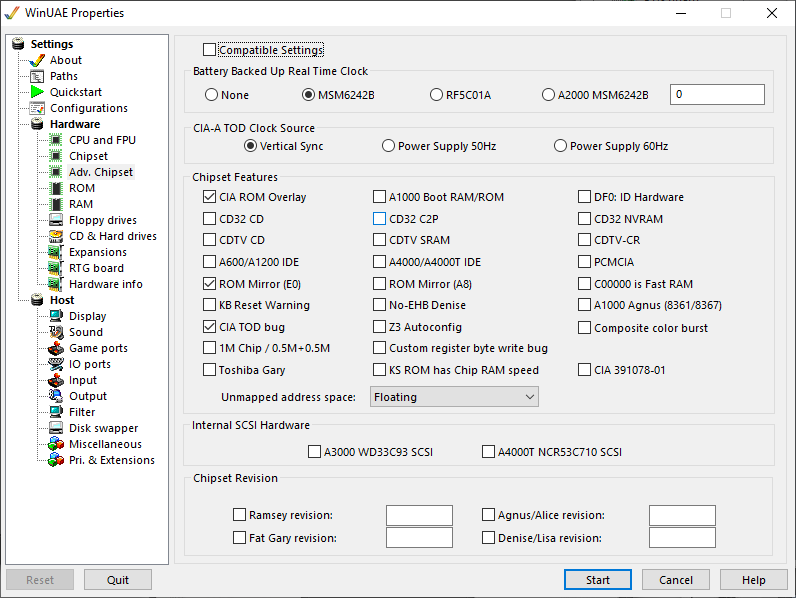
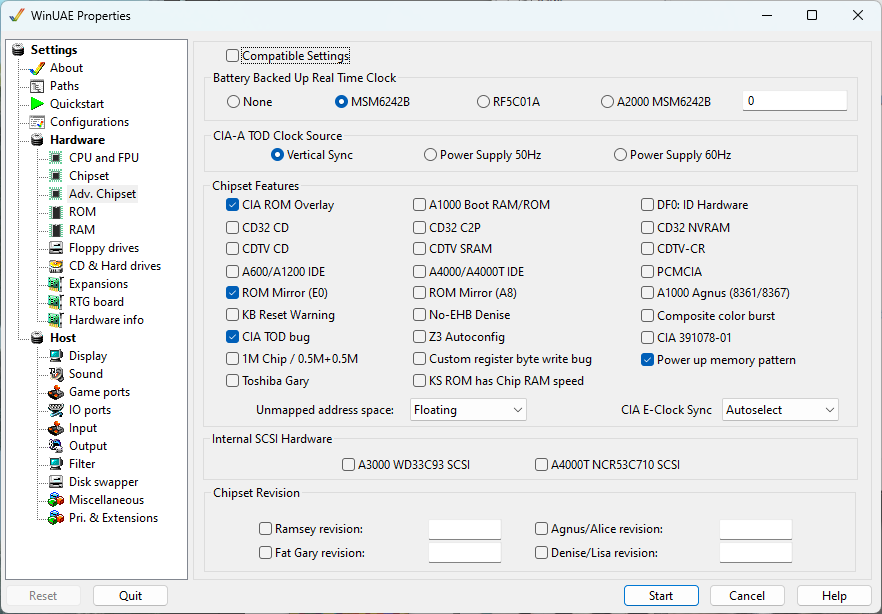
Latest changes for Winuae Help for Winuae 4.10.0
about
Advanced chipset
ram
RTG Board
Display
Sound
Output
Misc

diff --git a/gui/advchipset.htm b/gui/advchipset.htm
@@ -40,55 +40,54 @@
     Dynamic Total Vision) custom CD drive.<br>
     <strong>CDTV SRAM</strong> - Enable use of CDTV's Static
     RAM.<br>
-    <strong>CDTV SRAM Expansion</strong> - Enable use of CDTV's
-    Static RAM expansion.<br>
+    <strong>CDTV-CR</strong> - Enable CDTV Cost Reduced or Mk II
+    version (CDTV based on A600 rather than A500)<br>
     <strong>A600/A1200 IDE</strong> - Enable use of the Amiga 600
     or 1200 internal IDE port.<br>
     <strong>A4000/A4000T IDE</strong> - Enable use of the Amiga
     4000 or 4000T internal IDE port(s).<br>
-    <strong>CDTV-CR</strong> - CDTV Cost Reduced or MkII clone
-    (never publicly released).<br>
-    <strong>ROM Mirror (E0)</strong> - 1 MB ROM image support.<br>
-    <strong>ROM Mirror (A8)</strong> - 2 MB ROM image support.<br>
     <strong>PCMCIA</strong> - Enable use of PCMCIA port featured on
     the A600/A1200. Useful for external memory, storage and other
     uses.<br>
+    <strong>ROM Mirror (E0)</strong> - 1 MB ROM image support.<br>
+    <strong>ROM Mirror (A8)</strong> - 2 MB ROM image support.<br>
+    <strong>A1000 Agnus (8361/8367)</strong> - A1000's Agnus chip
+    (looks after Chip access to CPU and other chips), it includes
+    blitter and copper.<br>
     <strong>KB Reset Warning</strong> - Keyboard reset warning.<br>
     <strong>No-EHB Denise</strong> - No Extra Half Bright mode on
     Denise chip found on A1000.<br>
-    <strong>C00000 is Fast RAM</strong> - Forces memory address
-    into Fast RAM area.<br>
+    <strong>Composite color burst</strong> - Enable composite color
+    burst to update colors.<br>
     <strong>CIA TOD Bug</strong> - Emulate the Complex Interface
     Adapter (CIA) Time of Day bug.<br>
     <strong>Z3 Autoconfig</strong> - Enable Zorro3
     Autoconfiguration.<br>
-    <strong>A1000 Agnus (8361/8367)</strong> - A1000's Agnus chip
-    (looks after Chip access to CPU and other chips), it includes
-    blitter and copper.<br>
+    <strong>CIA 391078-01</strong> - Enable Complex Interface
+    Adapter 391078-01 chip which has a bug in IO port output mode,
+    reading output mode port will always read output mode data
+    state.<br>
     <strong>1MB Chip / 0.5M+0.5M</strong> - Enable 1MB Chip RAM
     made of two 512KB chips.<br>
     <strong>Custom register byte write bug</strong> - Enable a
     custom register byte write bug feature.<br>
-    <strong>Composite color burst</strong> - Enable composite color
-    burst to update colors.<br>
+    <strong>Power up memory pattern</strong> - Chip and Slow RAM
+    power up pattern emulation.<br>
     <strong>Toshiba Gary</strong> - Optional Toshiba Gary (Gate
     Array) slow (chip ram like) Z2 IO.Gary looks after bus control
     and functions for floppy drivers.<br>
     <strong>KS ROM has Chip RAM speed</strong> Set speed of
     Kickstart ROM to Chip RAM speed.<br>
-    <strong>CIA 391078-01</strong> - Enable Complex Interface
-    Adapter 391078-01 chip which has a bug in IO port output mode,
-    reading output mode port will always read output mode data
-    state.<br>
+    <br>
     <strong>Unmapped address space</strong> - Set unmapped address
-    space to Floating, all zeros or all ones.</p>
+    space to Floating, all zeros or all ones.<br>
+    <strong>CIA E-Clock Sync</strong> - Set to AutoSelect, 68000,
+    Gayle or 68000 Alternate.</p>
     <h1>Internal SCSI Hardware</h1>
     <p><strong>A3000 WD33C93 SCSI</strong> - Emulate the A3000
     Western Digital 33C93 SCSI controller.<br>
     <strong>A4000T NCR53C710 SCSI</strong> - Emulate the A4000T NCR
-    53C710 SCSI controller.<br>
-    <strong>CDTV WD33C93 SCSI</strong> - Enable the CDTV Western
-    Digital 33C93 SCSI controller.</p>
+    53C710 SCSI controller.</p>
     <h1>Chipset Revision</h1>
     <p><strong>Ramsey revision</strong> - Specify the specific
     version of the Ramsey chip (default is 0F). This is the gate

diff --git a/gui/sound.htm b/gui/sound.htm
@@ -24,34 +24,34 @@
       settings.</li>
     </ul>
     <p><strong>Automatic switching</strong> allows switching
-    between sound modes automatically.<br>
-    <strong>Include CD and FMV audio</strong> enables audio from CD
-    and video sources</p>
+    between sound modes automatically.</p>
     <h1>Volume</h1>
     <p><strong>Master volume</strong>. Set overall volume between
     0% (silent) to 100% (loud).<br>
     <strong>Paula,CD,AHI Audio</strong>. Set audio from either
-    Paula, direct CD or AHI sound between 0% (silent) to 100%
-    (loud).</p>
+    Paula, direct CD, AHI sound between 0% (silent) to 100% (loud),
+    MIDI Or Genlock.</p>
     <h1>Sound Buffer Size</h1>
     <p>Gives access to the level of the used Direct Sound buffer.
     If sound output is choppy, this should be changed.</p>
     <h1>Settings</h1>
     <p><strong>Channel mode</strong> can be set to Mono, Stereo,
-    Cloned Stereo or 4 Channel. Stereo will use more CPU time.<br>
+    Cloned Stereo or 4 Channel and 5.1 Channels. Stereo will use
+    more CPU time.<br>
     <strong>Stereo Separation</strong> can be set to improve stereo
     sound.<br>
     <strong>Interpolation</strong> improved quality by smoothing
     calculation results, but needs more computing power.<br>
     <strong>Frequency</strong> higher Frequency and/or Sample Type,
     the higher the sound quality will be, but the slower the
-    emulation <strong>Swap channels</strong> can be used to swap
-    between channels for Paula, AHI or both types of Sound
-    chipsets.<br>
+    emulation.<br>
+    <strong>Swap channels</strong> can be used to swap between
+    channels for Paula, AHI or both types of Sound chipsets.<br>
     <strong>Stereo delay</strong> can be set to improve stereo
     sound.<br>
     <strong>Audio Filter</strong> allows you to emulate Sound Power
-    LED and can be Always on, Always off or Emulated.</p>
+    LED and can be Always on, Always off or Emulated (for A500 or
+    A1200).</p>
     <h1>Floppy Drive Sound Emulation</h1>
     <p>This feature enables the Disk Drive sounds like on a real
     Amiga so you can hear disks being read or written to. Select a

diff --git a/gui/ram.htm b/gui/ram.htm
@@ -20,7 +20,7 @@
     <p>The <strong>drop down menu</strong> offers selection for all
     available RAM slots<br>
     <strong>Slider</strong> adjusts the amount of RAM for the
-    selected slot<br>
+    selected slot (256KB to 8MB)<br>
     <strong>Edit Autoconfig data</strong> Change the Manufacture
     code, Product code and Autoconfig data values.<br>
     <strong>Manual configuration</strong> Change the Address range
@@ -28,8 +28,13 @@
     <strong>DMA capable</strong> Enable Direct Memory Address
     capability.<br>
     <strong>Force 16-bit</strong> Use 16 bit memory addressing.<br>
+    <strong>Slow RAM</strong> Enable slow RAM (used by CPU and
+    Chipset).<br>
+    <br>
     <strong>Z3 mapping mode.</strong> Select Automatic, UAE or real
     Zorro 3 mapping mode.<br>
+    <strong>Manfacturer, Product, Autoconfig Data</strong> Display
+    data about memory board.<br>
     <strong>Memory board</strong> Select a UAE, DKB, Kupke or Supra
     memory board.<br>
     <strong>Address range</strong> Set address range for

diff --git a/gui/output.htm b/gui/output.htm
@@ -37,12 +37,21 @@
     <strong>Take screenshot before filtering</strong> will capture
     screen contents before any of the configured <a href=
     "filter.htm">filters</a> have been applied.<br>
+    <strong>Create 256 color palette index screenshot if
+    possible</strong><br>
     <strong>Autoclip screenshot</strong> will trim the picture to
     output format</p>
     <h1>Re-recorder</h1>
     <p>This can allow you to <strong>Record</strong> and
     <strong>Playback</strong> recorder input events saved with
-    WinUAE. They are saved as <strong>.inp</strong> files.</p>
+    WinUAE. They are saved as <strong>.inp</strong> files.<br>
+    <strong>Automatic replay</strong> Allow auto-replay of the
+    recording.<br>
+    <strong>Save recording</strong> Save a recorrding to an .inp
+    file.<br>
+    <strong>Recording rate</strong> Set to to 1 to 60 seconds.<br>
+    <strong>Recording buffers</strong> Set buffer from 50 to
+    10000.</p>
   </article>
   <footer>
     Help content is under the terms of the <a href=

diff --git a/gui/rtgboard.htm b/gui/rtgboard.htm
@@ -27,13 +27,18 @@
     instead if using windowed mode.<br>
     <strong>Always center</strong> Will make sure RTG display is
     centered in middle of monitor.<br>
+    <strong>Integer scaling</strong> Use integer type scaling for
+    RTG.<br>
+    <strong>Multithreaded</strong> Use RTG board's multithreading
+    for performance.<br>
+    <strong>Hardware sprite emulation</strong> If board supports
+    it, enable sprite emulation<br>
     <strong>Hardware vertical blank interrupt</strong>
     emulation<br>
-    <strong>Hardware sprite emulation</strong><br>
     <strong>Color modes:</strong> Specify color depth (in bits),
     and other modes available for the card.<br>
     <strong>Monitor selection</strong> to select the output screen.
-    Will be grayed out if only one screen is detected<br>
+    It will be grayed out if only one screen is detected<br>
     <br>
     <strong>Refresh Rate</strong> This can be Disabled, Chipset,
     Real or 50, 60, 70 or 75 Hz.<br>

diff --git a/gui/display.htm b/gui/display.htm
@@ -28,12 +28,17 @@
     <strong>Buffering</strong>. Select type of buffering required:
     No buffering, double or triple buffering.</p>
     <h1>Settings</h1>
+    <p><strong>Native</strong> Windowed, Fullscreen or Full-Window
+    with VSync setting.<br>
+    <strong>RTG</strong> Windowed, Fullscreen or Full-Window with
+    VSync setting.</p>
     <p><strong>Blacker than black</strong><br>
     <strong>Remove interlace artifacts</strong><br>
     <strong>Monochrome video out</strong><br>
     <strong>Filtered Low Resolution</strong> will fix incorrect
     colors used in games that use the super hires trick.<br>
     <strong>VGA mode Resolution Autoswitch</strong><br>
+    <strong>Display resync blanking</strong><br>
     <strong>Resolution</strong> can be set to Lores, Hires or Super
     Hires.<br>
     <strong>Overscan</strong> can be set to TV (narrow, standard or

diff --git a/gui/misc.htm b/gui/misc.htm
@@ -95,7 +95,9 @@
     <strong>Debug memory space</strong> Debug accesses to memory
     space (memwatch).<br>
     <strong>Force hard reset if CPU halted.</strong> Ensures a full
-    hard reset when the CPU is halted.</p>
+    hard reset when the CPU is halted.<br>
+    <strong>A600/A1200/A4000 IDE scsi.device disable</strong>
+    Disable onboard IDE scsi.device.</p>
     <h1>Miscellaneous Options</h1>
     <p><span><strong>SCSI and CD/DVD access .</strong> Select type
     of <a href="harddrives.htm">ASPI layer</a> to use, e.g. SCSI
